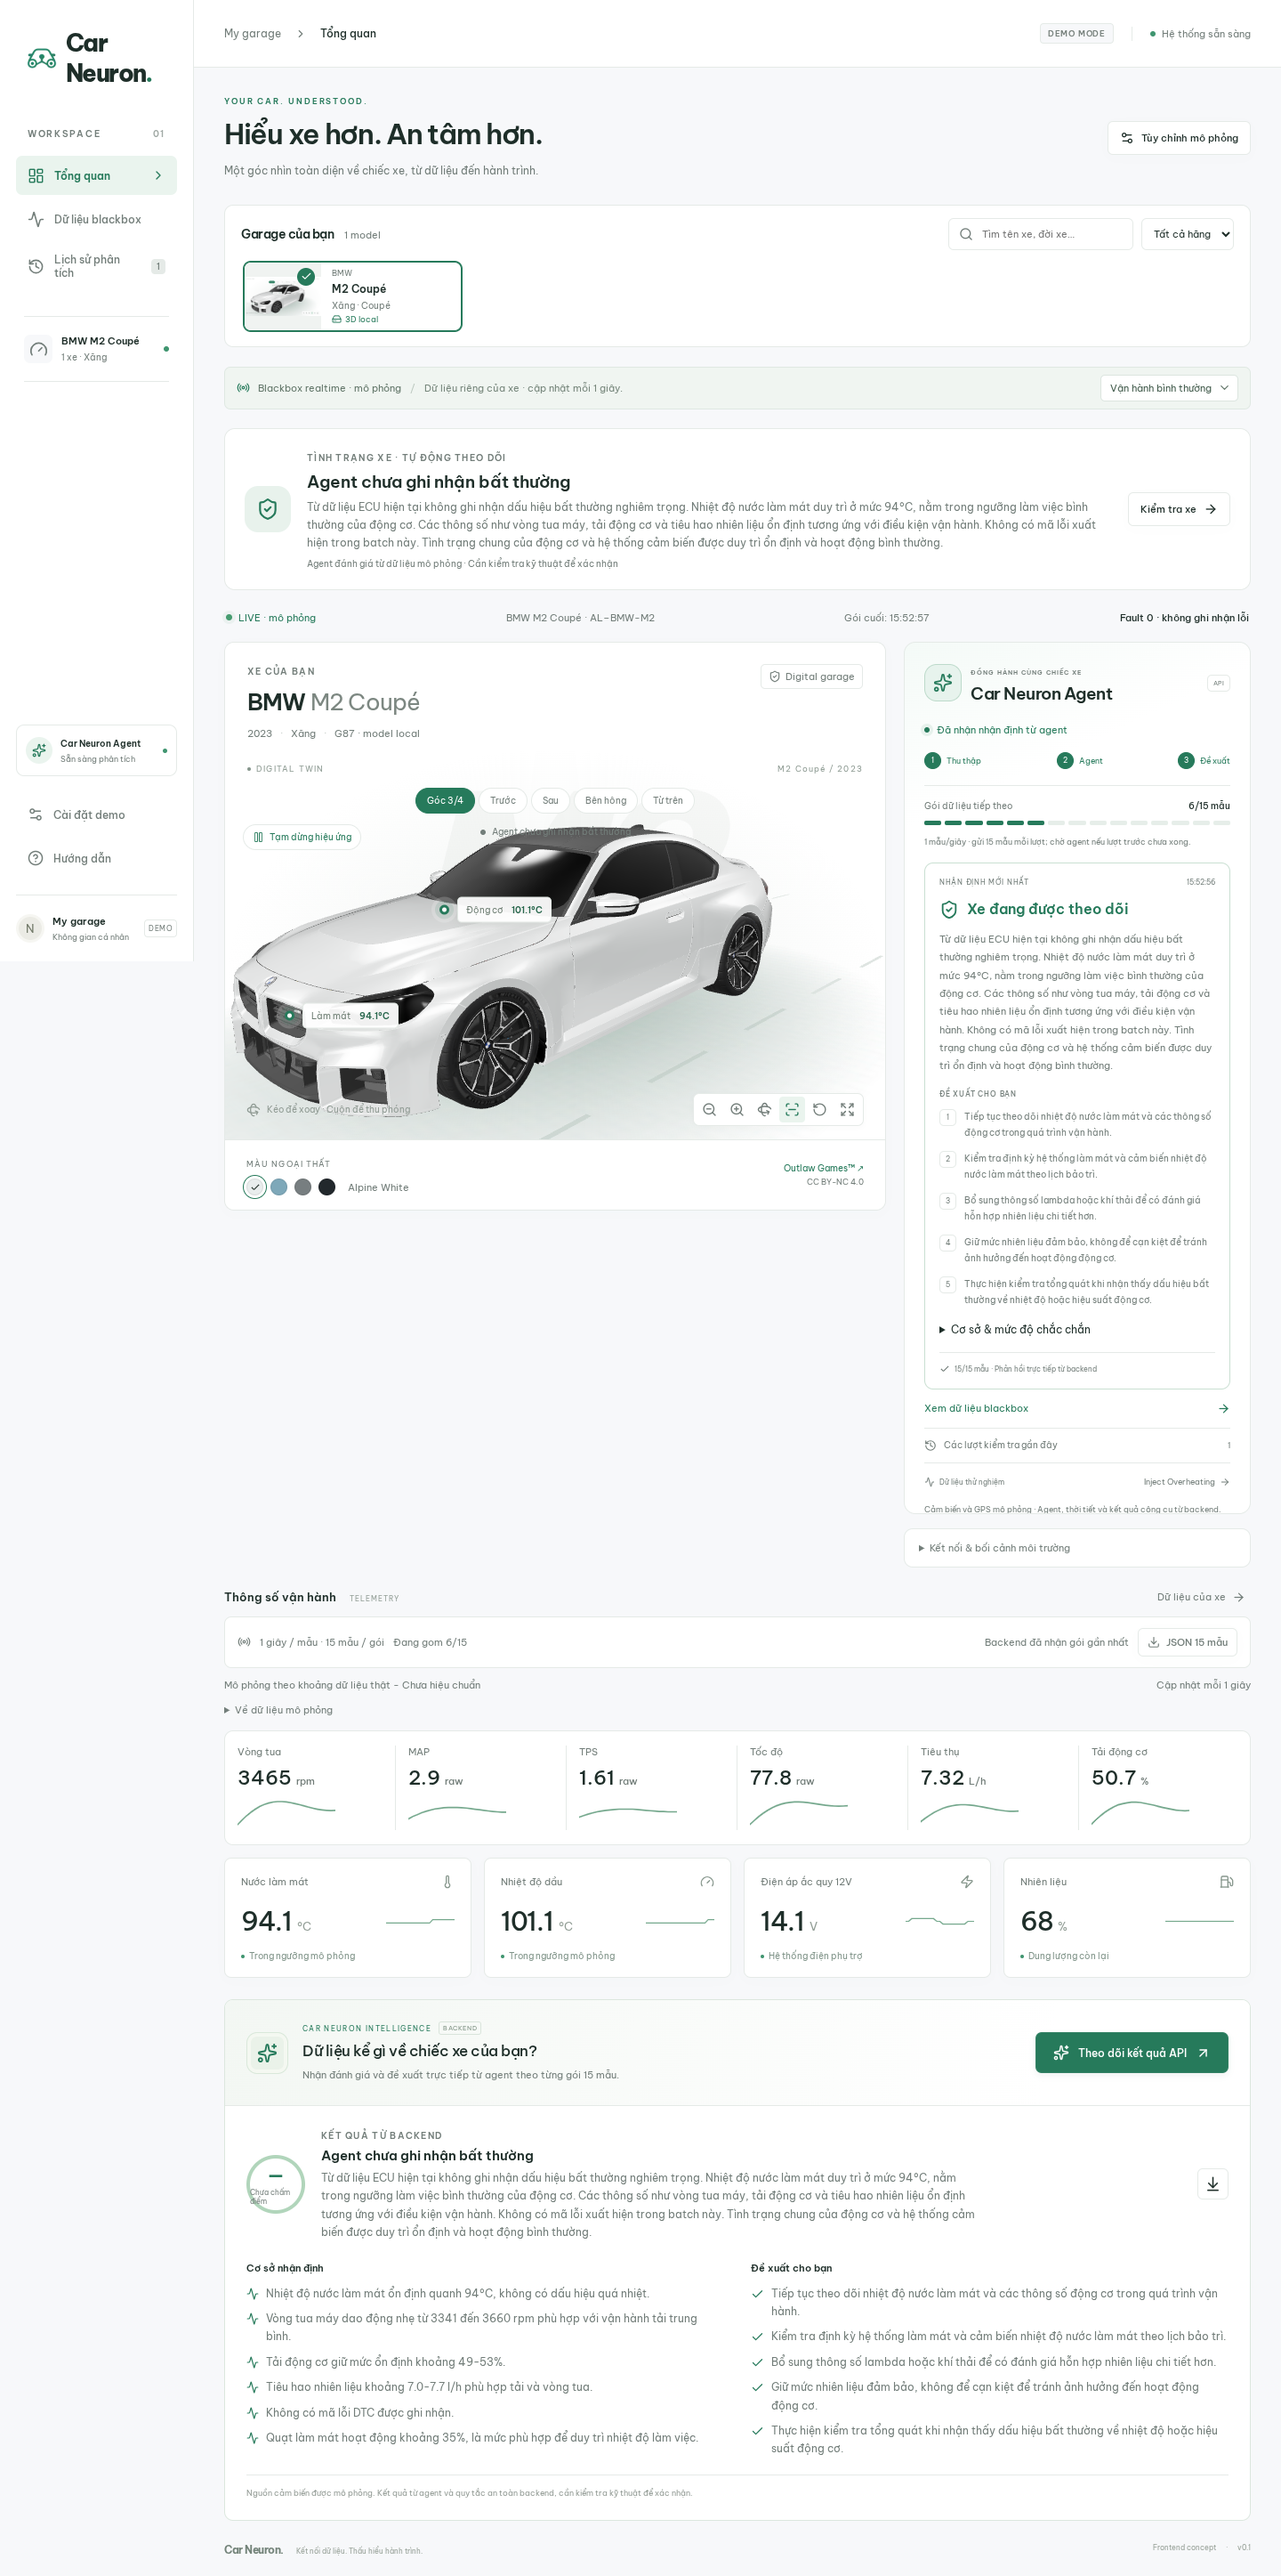
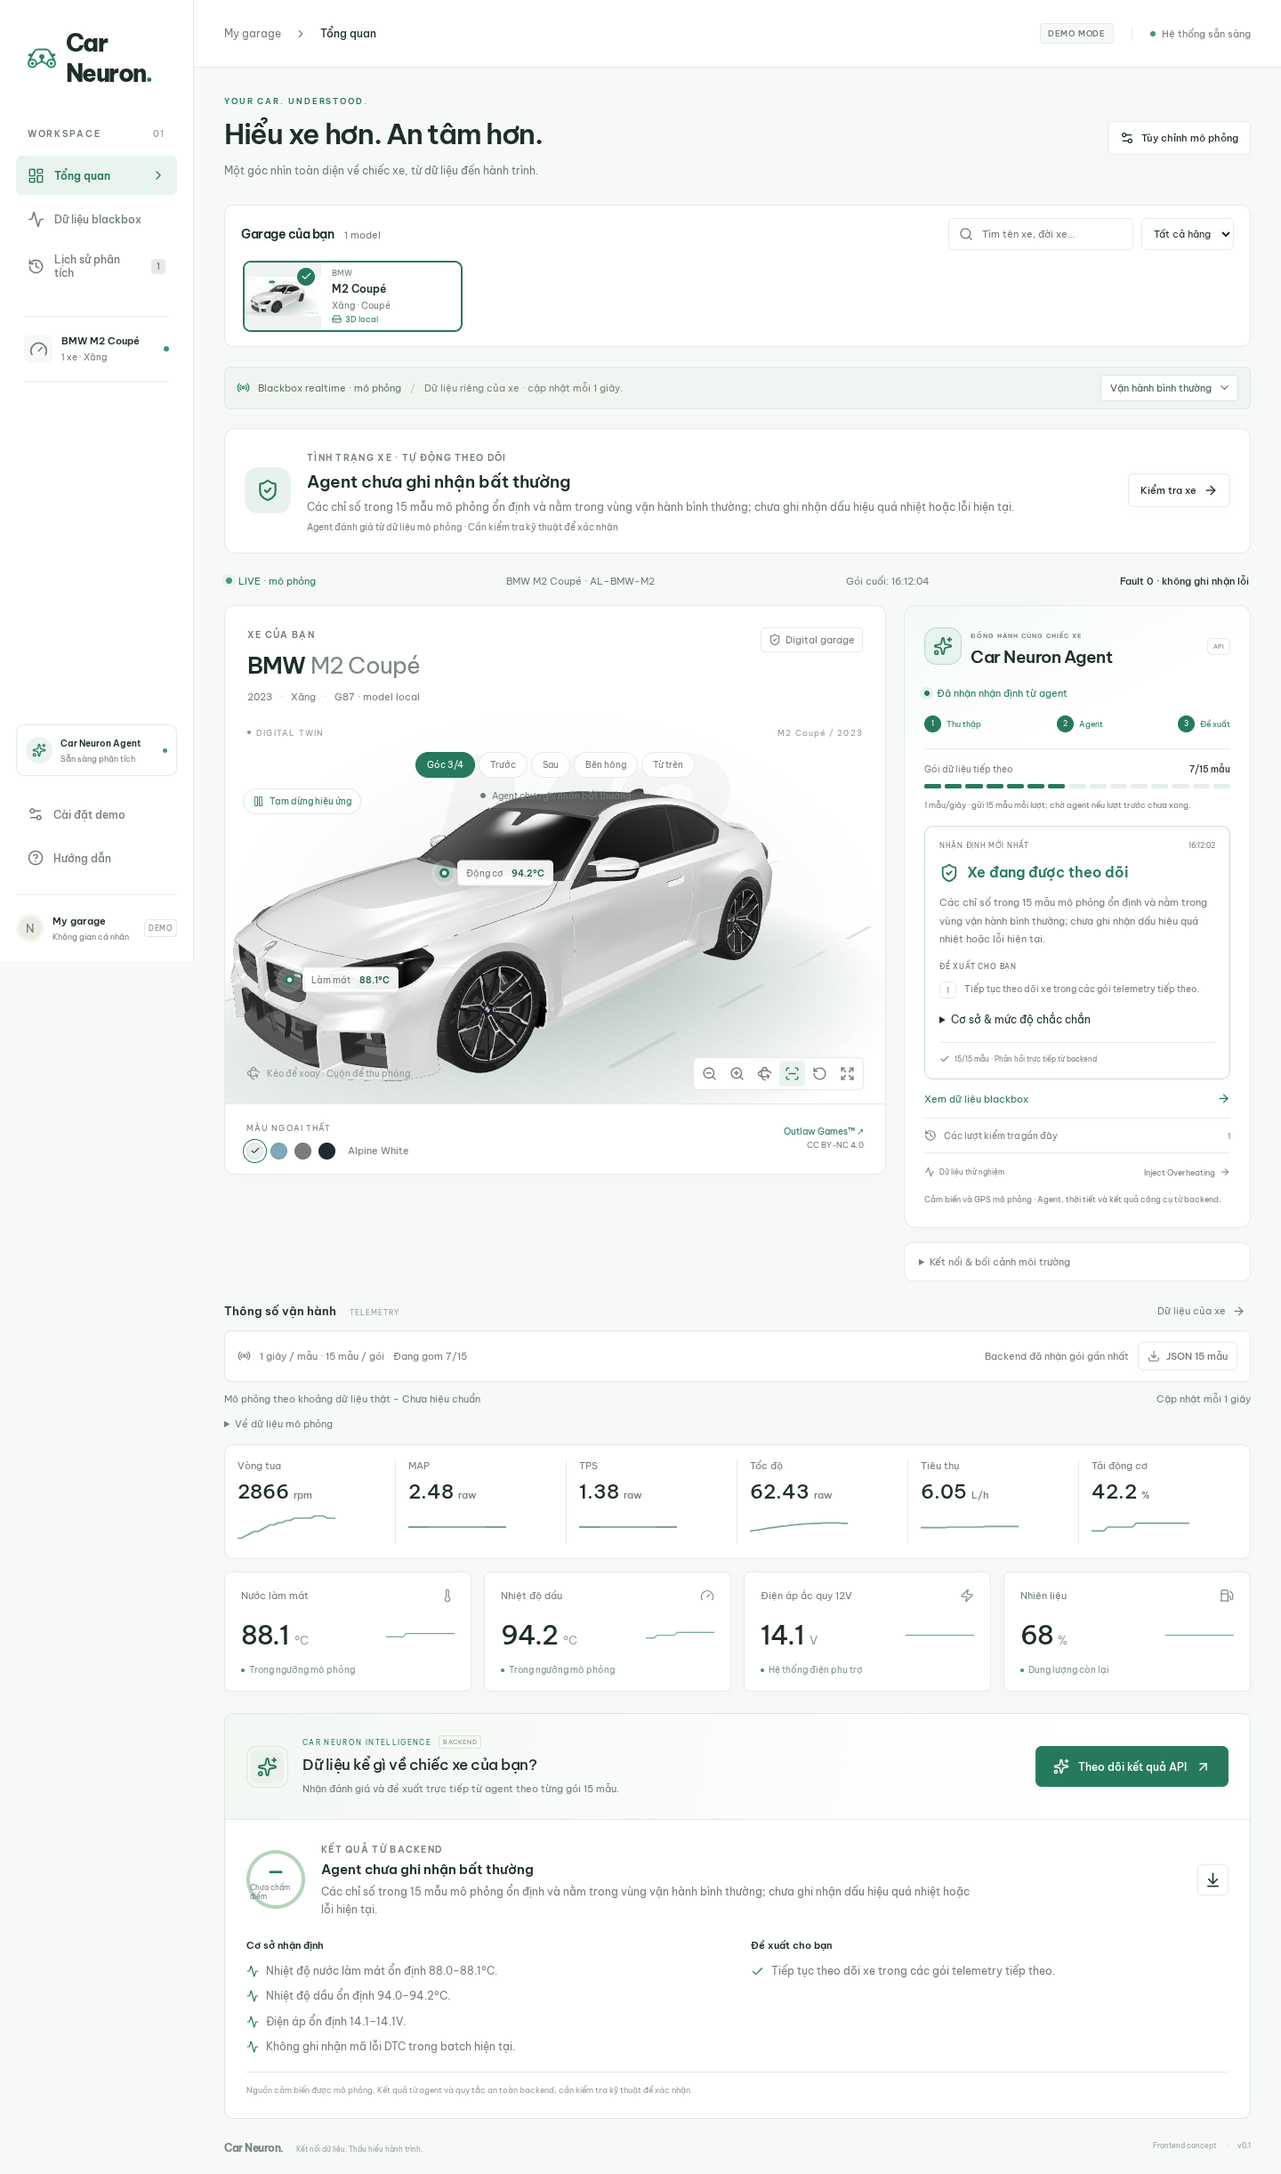
fix(agent): prevent false alerts for stable telemetry

diff --git a/frontend/src/components/backend-agent-panel.tsx b/frontend/src/components/backend-agent-panel.tsx
@@ -22,7 +22,7 @@ export default function BackendAgentPanel({state,transfer,connected,onInject,onV
     <p>{a.diagnosis}</p>
     {reply.incident&&<small data-testid="backend-incident" data-incident-id={reply.incident.id}>Sự cố: {reply.incident.id}</small>}
     <div className="agent-recommendations"><h4>Đề xuất cho bạn</h4>{a.recommendations.map((text,i)=><div className="agent-recommendation" key={i}><span>{i+1}</span><p>{text}</p></div>)}</div>
-    {nearbyGarages.length>0&&<section className="backend-nearby-garages" data-testid="backend-nearby-garages" aria-label="Garage gần xe"><div className="nearby-garages-heading"><div><h4><MapPin size={14}/>Garage gần xe</h4><p>Trong bán kính 5 km · chỉ dẫn tham khảo, không đặt lịch</p></div><span>{nearbyGarages.length} địa điểm</span></div><ol>{nearbyGarages.map((garage,index)=>{const safeUrl=garage.osm_url&&/^https:\/\/www\.openstreetmap\.org\//.test(garage.osm_url)?garage.osm_url:null;return <li key={garage.place_id||`${garage.latitude}-${garage.longitude}`}><span className="garage-rank">{index+1}</span><div><strong>{garage.name}</strong>{garage.address&&<small>{garage.address}</small>}<b>{garage.distance_km.toLocaleString('vi-VN')} km</b></div>{safeUrl&&<a href={safeUrl} target="_blank" rel="noreferrer" aria-label={`Mở ${garage.name} trên bản đồ`}><ExternalLink size={14}/></a>}</li>})}</ol><small className="garage-provider">Dữ liệu LocationIQ và OpenStreetMap</small></section>}
+    {severity!=='normal'&&nearbyGarages.length>0&&<section className="backend-nearby-garages" data-testid="backend-nearby-garages" aria-label="Garage gần xe"><div className="nearby-garages-heading"><div><h4><MapPin size={14}/>Garage gần xe</h4><p>Trong bán kính 5 km · chỉ dẫn tham khảo, không đặt lịch</p></div><span>{nearbyGarages.length} địa điểm</span></div><ol>{nearbyGarages.map((garage,index)=>{const safeUrl=garage.osm_url&&/^https:\/\/www\.openstreetmap\.org\//.test(garage.osm_url)?garage.osm_url:null;return <li key={garage.place_id||`${garage.latitude}-${garage.longitude}`}><span className="garage-rank">{index+1}</span><div><strong>{garage.name}</strong>{garage.address&&<small>{garage.address}</small>}<b>{garage.distance_km.toLocaleString('vi-VN')} km</b></div>{safeUrl&&<a href={safeUrl} target="_blank" rel="noreferrer" aria-label={`Mở ${garage.name} trên bản đồ`}><ExternalLink size={14}/></a>}</li>})}</ol><small className="garage-provider">Dữ liệu LocationIQ và OpenStreetMap</small></section>}
     {environment?.success&&environment.data&&<dl className="agent-observations"><div><dt>Ngoài trời · Open-Meteo</dt><dd>{environment.data.outside_temperature_c}°C</dd></div><div><dt>Quan sát lúc</dt><dd>{time(environment.data.observed_at)}</dd></div></dl>}
     <details><summary>Cơ sở & mức độ chắc chắn</summary><p>Độ tin cậy do agent tự đánh giá: {Math.round(a.confidence*100)}% · chưa hiệu chuẩn.</p><ul>{a.evidence.map((text,i)=><li key={i}>{text}</li>)}</ul>{a.suspected_faults.length>0&&<p>Khả năng cần kiểm tra: {a.suspected_faults.join('; ')}.</p>}{a.missing_data.length>0&&<p>Dữ liệu còn thiếu: {a.missing_data.join('; ')}.</p>}</details>
     <footer><Check size={12}/>{reply.accepted}/15 mẫu · Phản hồi trực tiếp từ backend</footer>

diff --git a/frontend/tests/live-telemetry.test.ts b/frontend/tests/live-telemetry.test.ts
@@ -6,7 +6,7 @@ test("live stream stays scoped to the selected car and advances packet data", ()
  const first = liveSample("normal", "bmw-m2", 0);
  const next = liveSample("normal", "bmw-m2", 1, new Date(Date.now() + 2000));
  assert.equal(next.vehicleId,"bmw-m2");
- assert.notEqual(first.rpm,next.rpm);
+ assert(Math.abs(first.rpm-next.rpm)<=25);
  assert.notEqual(first.capturedAt,next.capturedAt);
  assert.equal(next.fault,0);
  assert.throws(()=>liveSample("normal","missing-car",1));
@@ -24,7 +24,7 @@ test("scenario classification remains coherent over a ten-minute stream", () => 
 test("filtered workbook ranges bound a smooth per-car stream without assigning unknown units", async () => {
  const {operatingRanges, operatingUnit} = await import("../src/lib/telemetry-profile");
  let previous=liveSample("normal","bmw-m2",0);
- const distinct = new Set<number>();
+ const observed={rpm:[previous.rpm],map:[previous.map!],tps:[previous.tps!],speed:[previous.speed],consumption:[previous.consumption!]};
  for(let tick=1;tick<=3600;tick++){
   const packet=liveSample("normal","bmw-m2",tick);
   assert.equal(packet.operatingSource,"excel-range");
@@ -34,9 +34,15 @@ test("filtered workbook ranges bound a smooth per-car stream without assigning u
    assert(packet[key]!>=low && packet[key]!<=high,`${key} stays inside the filtered reference range`);
    assert(Math.abs(packet[key]!-previous[key]!) <= (high-low)*.06+1,`${key} does not jump between samples`);
   }
-  distinct.add(packet.rpm);previous=packet;
+  for(const key of ["rpm","map","tps","speed","consumption"] as const)observed[key].push(packet[key]!);
+  previous=packet;
  }
- assert(distinct.size>100);
+ const span=(values:number[])=>Math.max(...values)-Math.min(...values);
+ assert(span(observed.rpm)<=25);
+ assert(span(observed.map)<=.02);
+ assert(span(observed.tps)<=.02);
+ assert(span(observed.speed)<=.6);
+ assert(span(observed.consumption)<=.06);
  assert.equal(operatingUnit(previous,"map"),"raw");
  assert.equal(operatingUnit(previous,"tps"),"raw");
  assert.equal(operatingUnit(previous,"speed"),"raw");

diff --git a/backend/agent/orchestrator.py b/backend/agent/orchestrator.py
@@ -98,8 +98,79 @@ class VehicleAgent:
         if not isinstance(result.final_output, VehicleAssessment):
             raise RuntimeError("OpenAI agent returned an invalid vehicle assessment")
         assessment = self._enforce_safety_floor(result.final_output, safety)
+        assessment = self._enforce_simulated_nominal_profile(
+            assessment,
+            telemetry_context,
+            safety.triggered,
+        )
         self._ensure_nearby_garages(assessment, telemetry_context, context.trace)
         return assessment, context.trace, safety.model_dump(mode="json")
+
+    @staticmethod
+    def _enforce_simulated_nominal_profile(
+        assessment: VehicleAssessment,
+        telemetry_context: dict[str, Any],
+        safety_triggered: bool,
+    ) -> VehicleAssessment:
+        """Prevent model-only thermal false positives in the stable demo profile."""
+        records = telemetry_context.get("records") or []
+        if (
+            telemetry_context.get("source") != "simulated"
+            or safety_triggered
+            or not records
+        ):
+            return assessment
+
+        def values(name: str) -> list[float]:
+            return [
+                float(record[name])
+                for record in records
+                if record.get(name) is not None
+            ]
+
+        coolant = values("coolant_temp_c")
+        oil = values("oil_temp_c")
+        intake = values("intake_air_temp_c")
+        battery = values("battery_voltage")
+        fuel = values("fuel_percent")
+        has_dtc = any(record.get("dtc") for record in records)
+        nominal = (
+            len(coolant) == len(records)
+            and len(battery) == len(records)
+            and not has_dtc
+            and all(-20 <= value <= 105 for value in coolant)
+            and max(coolant) - min(coolant) <= 2
+            and all(12 <= value <= 15.2 for value in battery)
+            and max(battery) - min(battery) <= 0.5
+            and (not oil or (all(0 <= value <= 115 for value in oil) and max(oil) - min(oil) <= 3))
+            and (not intake or all(-30 <= value <= 70 for value in intake))
+            and (not fuel or all(value >= 10 for value in fuel))
+        )
+        if not nominal:
+            return assessment
+
+        evidence = [
+            f"Nhiệt độ nước làm mát ổn định {min(coolant):.1f}–{max(coolant):.1f}°C.",
+            f"Điện áp ổn định {min(battery):.1f}–{max(battery):.1f}V.",
+            "Không ghi nhận mã lỗi DTC trong batch hiện tại.",
+        ]
+        if oil:
+            evidence.insert(
+                1,
+                f"Nhiệt độ dầu ổn định {min(oil):.1f}–{max(oil):.1f}°C.",
+            )
+        return VehicleAssessment(
+            severity=Severity.NORMAL,
+            diagnosis=(
+                "Các chỉ số trong 15 mẫu mô phỏng ổn định và nằm trong vùng "
+                "vận hành bình thường; chưa ghi nhận dấu hiệu quá nhiệt hoặc lỗi hiện tại."
+            ),
+            suspected_faults=[],
+            evidence=evidence,
+            confidence=0.9,
+            missing_data=[],
+            recommendations=["Tiếp tục theo dõi xe trong các gói telemetry tiếp theo."],
+        )
 
     @staticmethod
     def _ensure_nearby_garages(

diff --git a/backend/tests/test_openai_agent.py b/backend/tests/test_openai_agent.py
@@ -51,6 +51,18 @@ def _normal_assessment() -> VehicleAssessment:
     )
 
 
+def _critical_assessment() -> VehicleAssessment:
+    return VehicleAssessment(
+        severity=Severity.CRITICAL,
+        diagnosis="Hệ thống làm mát có nguy cơ hỏng.",
+        suspected_faults=["Hệ thống làm mát"],
+        evidence=["Quạt không hoạt động."],
+        confidence=0.8,
+        missing_data=[],
+        recommendations=["Dừng xe ngay."],
+    )
+
+
 def test_agent_registers_read_tools() -> None:
     tool_names = {tool.name for tool in orchestrator.vehicle_agent.agent.tools}
     assert tool_names == {
@@ -181,3 +193,41 @@ def test_existing_agent_garage_lookup_is_not_duplicated(monkeypatch) -> None:
     )
 
     assert [item["tool"] for item in trace].count("search_nearby_garages") == 1
+
+
+def test_stable_simulated_thermal_profile_cannot_be_escalated_by_model(
+    monkeypatch,
+) -> None:
+    context = _telemetry_context(coolant=88)
+    context["source"] = "simulated"
+    for record in context["records"]:
+        record.update(
+            {
+                "oil_temp_c": 94,
+                "intake_air_temp_c": 34,
+                "fuel_percent": 68,
+                "fan_percent": 0,
+                "dtc": [],
+            }
+        )
+    monkeypatch.setattr(
+        orchestrator.Runner,
+        "run_sync",
+        lambda *args, **kwargs: SimpleNamespace(final_output=_critical_assessment()),
+    )
+    monkeypatch.setattr(
+        orchestrator,
+        "search_nearby_garages",
+        lambda **kwargs: (_ for _ in ()).throw(AssertionError("false alert lookup")),
+    )
+
+    assessment, trace, safety = orchestrator.vehicle_agent._run_analysis(
+        context,
+        {"incident_id": "inc_old", "status": "active"},
+    )
+
+    assert safety["triggered"] is False
+    assert assessment.severity == Severity.NORMAL
+    assert assessment.suspected_faults == []
+    assert "chưa ghi nhận dấu hiệu quá nhiệt" in assessment.diagnosis
+    assert not any(item["tool"] == "search_nearby_garages" for item in trace)

diff --git a/backend/agent/prompt.py b/backend/agent/prompt.py
@@ -33,6 +33,8 @@ Nguyên tắc phân tích ECU:
 - RPM tăng nhưng lực/công suất giảm cùng HC bất thường có thể gợi ý bỏ máy hoặc hiệu suất đốt cháy kém.
 - Nhiệt độ nước làm mát tăng theo thời gian, đặc biệt khi tải không tăng tương ứng, có thể gợi ý vấn đề làm mát.
 - Nhiệt độ ngoài trời chỉ là bối cảnh so sánh; không phải nhiệt độ nước làm mát và không đủ để xác định nguyên nhân hỏng hóc.
+- ECT ổn định quanh 80–105°C hoặc EOT ổn định quanh 80–115°C tự nó không phải bằng chứng quá nhiệt. Không suy diễn lỗi chỉ vì nhiệt độ cao hơn nhiệt độ ngoài trời.
+- Quạt 0% không tự chứng minh hệ thống làm mát bị hỏng khi ECT ổn định; xe đang chạy có thể được làm mát bằng luồng khí. Cũng không suy diễn lỗi chỉ vì quạt đang chạy.
 - DTC là bằng chứng hỗ trợ nếu có nhưng không tự động chứng minh một bộ phận đã hỏng.
 
 Phân loại mức độ:
@@ -40,6 +42,7 @@ Phân loại mức độ:
 - warning: có mẫu bất thường nhất quán, nên kiểm tra sớm nhưng chưa có dấu hiệu nguy hiểm tức thời.
 - critical: có nguy cơ gây mất an toàn hoặc hư hỏng nghiêm trọng; yêu cầu dừng xe ở vị trí an toàn và không tiếp tục lái.
 - Không được trả severity thấp hơn hard_safety_guardrail.minimum_severity.
+- Không trả critical nếu guardrail không kích hoạt và batch hiện tại không có bằng chứng cụ thể về nguy hiểm tức thời.
 
 Quy tắc tool và dữ liệu:
 - Các tool lấy vehicle_id và GPS từ backend context; không tự tạo hoặc thay đổi tham số này.

diff --git a/backend/AGENT.md b/backend/AGENT.md
@@ -5,6 +5,7 @@
 3. **Tools:** Read outside temperature at the final batch coordinate and maintenance history. For every final warning/critical assessment with valid GPS, ensure one nearby-garage lookup within 5 km and return up to five results ordered by distance.
 4. **Memory:** Load active short-term incident memory from SQLite before each run. Create or refresh memory only for warning/critical assessments, and expire it using the configured TTL.
 5. **Safety:** Deterministic backend guardrails set a minimum severity that the model cannot downgrade.
+   Stable data from the built-in simulator is also normalized after inference so ordinary coolant temperature or fan state alone cannot become a model-only thermal alert; this ceiling never overrides a triggered safety guardrail.
 6. **Actions:** Booking and reminder writes stay outside the agent and require explicit confirmation through the API.
 7. **Output:** Return a structured assessment with severity, suspected faults, evidence, confidence, missing data, diagnosis, and recommendations.
 
